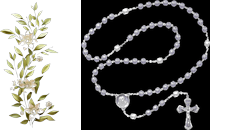
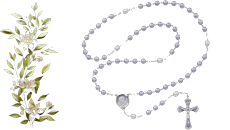
Add files via upload

diff --git a/index.html b/index.html
@@ -407,10 +407,11 @@
     pointer-events:none;
     opacity:0.85;
   }
-  #decor-top{ top:0; }
+  #decor-top{ top:90px; }
   #decor-bottom{ top:0; }
   @media (max-width:700px){
     .decor-band{ height:48px; background-size:auto 48px; opacity:0.7; }
+    #decor-top{ top:130px; }
   }
 
   footer{
